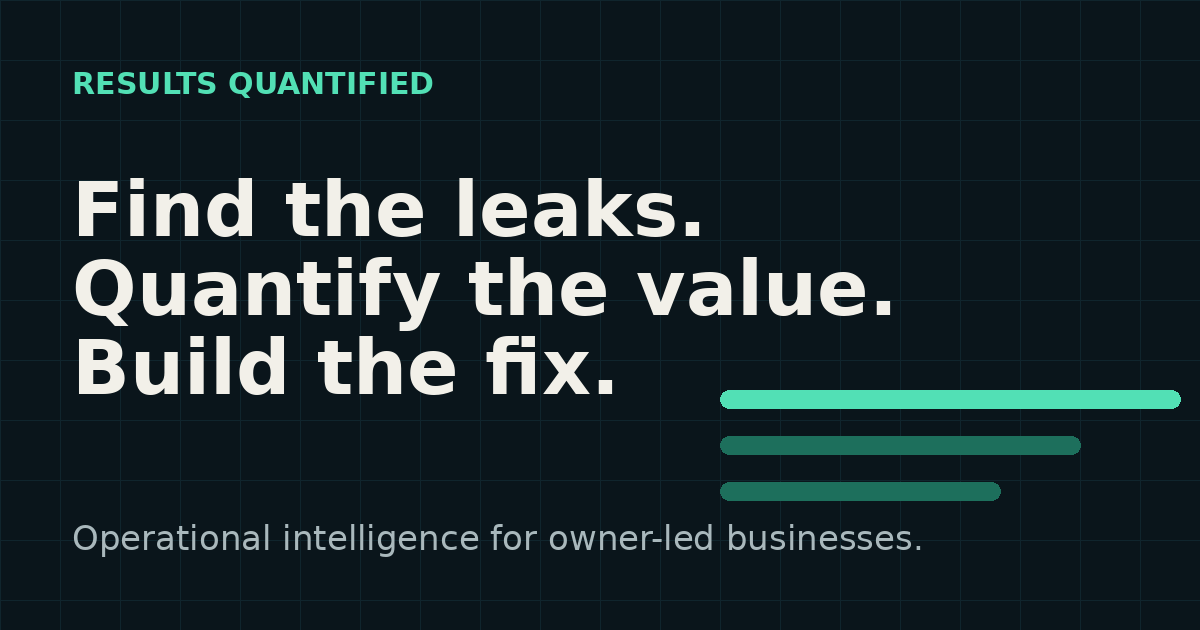
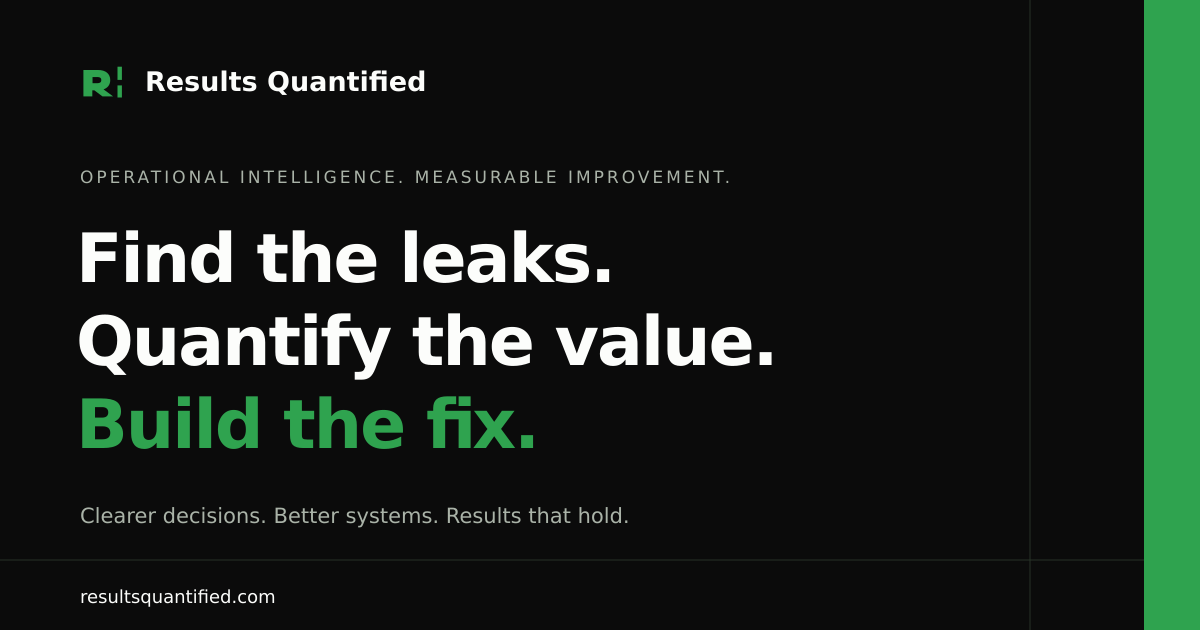
Apply black and medium-green branding and document iCloud email setup

diff --git a/styles.css b/styles.css
@@ -1,20 +1,20 @@
 :root {
-  --ink: #0a151b;
-  --ink-soft: #13252e;
-  --paper: #f2f0e9;
-  --paper-2: #e9e6dd;
-  --white: #fffdf8;
-  --muted: #68757b;
-  --muted-light: #a9b5b9;
-  --line: rgba(10, 21, 27, 0.14);
+  --ink: #0b0b0b;
+  --ink-soft: #171817;
+  --paper: #f2f3ef;
+  --paper-2: #e7eae4;
+  --white: #fcfdfb;
+  --muted: #626861;
+  --muted-light: #adb4ac;
+  --line: rgba(11, 11, 11, 0.14);
   --line-light: rgba(255,255,255,0.13);
-  --accent: #52e0b5;
-  --accent-dark: #0d6f59;
-  --accent-soft: rgba(82, 224, 181, 0.13);
+  --accent: #2fa34f;
+  --accent-dark: #1c7032;
+  --accent-soft: rgba(47, 163, 79, 0.13);
   --danger: #e18b6b;
   --radius: 18px;
   --radius-lg: 28px;
-  --shadow: 0 24px 70px rgba(5, 16, 22, 0.13);
+  --shadow: 0 24px 70px rgba(0, 0, 0, 0.13);
   --container: 1180px;
   --header-h: 82px;
 }
@@ -72,7 +72,7 @@ button { cursor: pointer; }
   z-index: 100;
   height: var(--header-h);
   color: var(--white);
-  background: rgba(10, 21, 27, 0.72);
+  background: rgba(11, 11, 11, 0.72);
   border-bottom: 1px solid transparent;
   backdrop-filter: blur(18px);
   -webkit-backdrop-filter: blur(18px);
@@ -80,7 +80,7 @@ button { cursor: pointer; }
 }
 .site-header.scrolled {
   height: 70px;
-  background: rgba(10, 21, 27, 0.94);
+  background: rgba(11, 11, 11, 0.94);
   border-color: var(--line-light);
 }
 .nav-wrap {
@@ -111,7 +111,7 @@ button { cursor: pointer; }
 .primary-nav a:hover, .primary-nav a:focus-visible { opacity: 1; color: var(--accent); }
 .primary-nav .nav-cta {
   opacity: 1;
-  border: 1px solid rgba(82, 224, 181, .55);
+  border: 1px solid rgba(47, 163, 79, .55);
   padding: 10px 15px;
   border-radius: 999px;
   color: var(--accent);
@@ -133,8 +133,8 @@ button { cursor: pointer; }
   overflow: hidden;
   color: var(--white);
   background:
-    radial-gradient(circle at 84% 17%, rgba(82,224,181,.12), transparent 28%),
-    radial-gradient(circle at 15% 80%, rgba(82,224,181,.07), transparent 30%),
+    radial-gradient(circle at 84% 17%, rgba(47, 163, 79,.12), transparent 28%),
+    radial-gradient(circle at 15% 80%, rgba(47, 163, 79,.07), transparent 30%),
     var(--ink);
   padding: 184px 0 112px;
 }
@@ -176,7 +176,7 @@ button { cursor: pointer; }
 .hero-lede {
   max-width: 690px;
   margin: 34px 0 0;
-  color: #c0cbce;
+  color: #c4cbc2;
   font-size: clamp(1.05rem, 1.6vw, 1.25rem);
   line-height: 1.65;
 }
@@ -195,16 +195,16 @@ button { cursor: pointer; }
   transition: transform .2s ease, box-shadow .2s ease, background .2s ease, border-color .2s ease;
 }
 .button:hover { transform: translateY(-2px); }
-.button-primary { background: var(--accent); color: var(--ink); box-shadow: 0 12px 30px rgba(82,224,181,.18); }
-.button-primary:hover { box-shadow: 0 15px 36px rgba(82,224,181,.3); }
+.button-primary { background: var(--accent); color: var(--ink); box-shadow: 0 12px 30px rgba(47, 163, 79,.18); }
+.button-primary:hover { box-shadow: 0 15px 36px rgba(47, 163, 79,.3); }
 .button-ghost { color: var(--white); border-color: rgba(255,255,255,.28); background: rgba(255,255,255,.025); }
 .button-ghost:hover { border-color: rgba(255,255,255,.55); }
-.hero-note { display: flex; align-items: center; gap: 10px; margin-top: 32px; color: #93a3a8; font-size: .88rem; }
-.pulse-dot { width: 8px; height: 8px; border-radius: 50%; background: var(--accent); box-shadow: 0 0 0 0 rgba(82,224,181,.5); animation: pulse 2.2s infinite; }
-@keyframes pulse { 70% { box-shadow: 0 0 0 9px rgba(82,224,181,0); } 100% { box-shadow: 0 0 0 0 rgba(82,224,181,0); } }
+.hero-note { display: flex; align-items: center; gap: 10px; margin-top: 32px; color: #a0aaa0; font-size: .88rem; }
+.pulse-dot { width: 8px; height: 8px; border-radius: 50%; background: var(--accent); box-shadow: 0 0 0 0 rgba(47, 163, 79,.5); animation: pulse 2.2s infinite; }
+@keyframes pulse { 70% { box-shadow: 0 0 0 9px rgba(47, 163, 79,0); } 100% { box-shadow: 0 0 0 0 rgba(47, 163, 79,0); } }
 
 .diagnostic-card {
-  background: rgba(18, 38, 47, .78);
+  background: rgba(24, 28, 24, .78);
   border: 1px solid rgba(255,255,255,.13);
   border-radius: var(--radius-lg);
   padding: 30px;
@@ -214,19 +214,19 @@ button { cursor: pointer; }
 }
 .card-topline { display: flex; justify-content: space-between; gap: 20px; align-items: flex-start; padding-bottom: 24px; border-bottom: 1px solid var(--line-light); }
 .card-topline h2 { margin: 4px 0 0; font-size: 1.4rem; letter-spacing: -.025em; }
-.mini-label { color: #8fa1a7; font-size: .68rem; font-weight: 800; letter-spacing: .12em; text-transform: uppercase; }
-.status-pill { flex: 0 0 auto; color: var(--accent); background: var(--accent-soft); border: 1px solid rgba(82,224,181,.24); border-radius: 999px; padding: 7px 10px; font-size: .7rem; font-weight: 800; text-transform: uppercase; letter-spacing: .08em; }
+.mini-label { color: #a2ada1; font-size: .68rem; font-weight: 800; letter-spacing: .12em; text-transform: uppercase; }
+.status-pill { flex: 0 0 auto; color: var(--accent); background: var(--accent-soft); border: 1px solid rgba(47, 163, 79,.24); border-radius: 999px; padding: 7px 10px; font-size: .7rem; font-weight: 800; text-transform: uppercase; letter-spacing: .08em; }
 .metric-row { display: grid; grid-template-columns: 1.25fr .7fr; gap: 20px; align-items: end; padding: 25px 0; border-bottom: 1px solid var(--line-light); }
 .metric-row > div:first-child { display: grid; grid-template-columns: 38px 1fr; }
 .metric-row strong { font-size: 1.02rem; }
-.metric-row small { grid-column: 2; color: #91a0a5; font-size: .78rem; }
+.metric-row small { grid-column: 2; color: #a2ada1; font-size: .78rem; }
 .metric-index { color: var(--accent); font-size: .7rem; font-weight: 800; }
 .metric-signal { padding-bottom: 3px; }
-.signal-label { display: block; margin-bottom: 8px; text-align: right; color: #77898f; font-size: .65rem; font-weight: 700; text-transform: uppercase; letter-spacing: .1em; }
+.signal-label { display: block; margin-bottom: 8px; text-align: right; color: #99a297; font-size: .65rem; font-weight: 700; text-transform: uppercase; letter-spacing: .1em; }
 .signal-track { height: 5px; overflow: hidden; border-radius: 999px; background: rgba(255,255,255,.1); }
 .signal-track span { display: block; width: var(--fill); height: 100%; border-radius: inherit; background: linear-gradient(90deg, var(--accent-dark), var(--accent)); transform-origin: left; animation: loadbar 1.2s .35s ease both; }
 @keyframes loadbar { from { transform: scaleX(0); } to { transform: scaleX(1); } }
-.card-footer { display: grid; grid-template-columns: repeat(4,1fr); gap: 8px; padding-top: 20px; color: #6e8188; font-size: .62rem; font-weight: 800; letter-spacing: .07em; text-transform: uppercase; }
+.card-footer { display: grid; grid-template-columns: repeat(4,1fr); gap: 8px; padding-top: 20px; color: #99a297; font-size: .62rem; font-weight: 800; letter-spacing: .07em; text-transform: uppercase; }
 
 .proof-strip { background: var(--paper-2); border-bottom: 1px solid var(--line); }
 .proof-grid { display: grid; grid-template-columns: repeat(3,1fr); }
@@ -262,20 +262,20 @@ button { cursor: pointer; }
 
 .method-layout { display: grid; grid-template-columns: .82fr 1.2fr; gap: clamp(50px, 8vw, 110px); align-items: start; }
 .method-intro { position: sticky; top: 120px; }
-.method-intro p:not(.eyebrow) { margin: 25px 0 0; color: #9cadb2; }
+.method-intro p:not(.eyebrow) { margin: 25px 0 0; color: #aab3a8; }
 .text-link { display: inline-flex; gap: 10px; margin-top: 30px; color: var(--accent); font-weight: 800; text-decoration: none; }
 .method-steps { list-style: none; margin: 0; padding: 0; }
 .method-steps li { display: grid; grid-template-columns: 60px 1fr; gap: 22px; padding: 34px 0; border-top: 1px solid var(--line-light); }
 .method-steps li:last-child { border-bottom: 1px solid var(--line-light); }
 .method-steps > li > span { color: var(--accent); font-size: .75rem; font-weight: 850; letter-spacing: .1em; }
 .method-steps h3 { margin: 0 0 8px; font-size: 1.45rem; letter-spacing: -.03em; }
-.method-steps p { margin: 0; color: #9cadb2; }
+.method-steps p { margin: 0; color: #aab3a8; }
 
 .fit-grid { display: grid; grid-template-columns: repeat(4,1fr); gap: 16px; }
 .fit-card { min-height: 286px; padding: 25px; border-radius: var(--radius); background: var(--ink); color: var(--white); }
-.fit-icon { display: inline-flex; align-items: center; justify-content: center; min-width: 54px; height: 28px; padding: 0 9px; border: 1px solid rgba(82,224,181,.38); border-radius: 999px; color: var(--accent); font-size: .65rem; font-weight: 850; letter-spacing: .08em; }
+.fit-icon { display: inline-flex; align-items: center; justify-content: center; min-width: 54px; height: 28px; padding: 0 9px; border: 1px solid rgba(47, 163, 79,.38); border-radius: 999px; color: var(--accent); font-size: .65rem; font-weight: 850; letter-spacing: .08em; }
 .fit-card h3 { margin: 75px 0 12px; font-size: 1.2rem; letter-spacing: -.025em; }
-.fit-card p { margin: 0; color: #9badb2; font-size: .9rem; }
+.fit-card p { margin: 0; color: #aab3a8; font-size: .9rem; }
 .fit-callout { display: grid; grid-template-columns: 1fr 1fr; gap: 60px; align-items: center; margin-top: 20px; padding: 36px; border-radius: var(--radius); border: 1px solid var(--line); background: var(--white); }
 .fit-callout h3 { margin: 8px 0 0; font-size: 1.55rem; line-height: 1.2; letter-spacing: -.035em; }
 .fit-callout p { margin: 0; color: var(--muted); }
@@ -286,11 +286,11 @@ button { cursor: pointer; }
 .built-visual { padding: 30px; border-radius: var(--radius-lg); background: var(--ink); color: var(--white); box-shadow: var(--shadow); }
 .system-map { display: grid; gap: 8px; place-items: center; padding: 30px 0 20px; }
 .map-node { width: 70%; padding: 15px 18px; border: 1px solid rgba(255,255,255,.16); border-radius: 10px; text-align: center; font-size: .82rem; font-weight: 800; }
-.map-node-source { width: 90%; color: #a8b8bd; }
+.map-node-source { width: 90%; color: #b1bcb0; }
 .map-node-accent { color: var(--ink); background: var(--accent); border-color: var(--accent); }
-.map-arrow { color: #6e858d; }
+.map-arrow { color: #99a297; }
 .system-tags { display: flex; flex-wrap: wrap; justify-content: center; gap: 8px; padding-top: 20px; border-top: 1px solid var(--line-light); }
-.system-tags span { padding: 6px 9px; border-radius: 6px; background: rgba(255,255,255,.06); color: #8fa0a6; font-size: .65rem; text-transform: uppercase; font-weight: 800; letter-spacing: .06em; }
+.system-tags span { padding: 6px 9px; border-radius: 6px; background: rgba(255,255,255,.06); color: #a2ada1; font-size: .65rem; text-transform: uppercase; font-weight: 800; letter-spacing: .06em; }
 .built-copy p:not(.eyebrow) { color: var(--muted); font-size: 1.02rem; }
 .built-copy p:nth-of-type(2) { margin-top: 28px; }
 
@@ -304,11 +304,11 @@ button { cursor: pointer; }
 
 .about-section { color: var(--white); background: var(--ink); }
 .about-layout { display: grid; grid-template-columns: .55fr 1.45fr; gap: 80px; align-items: start; }
-.about-label { width: 210px; height: 260px; display: flex; flex-direction: column; justify-content: space-between; padding: 25px; border: 1px solid rgba(255,255,255,.16); border-radius: var(--radius-lg); background: linear-gradient(155deg, rgba(82,224,181,.11), transparent 65%); }
+.about-label { width: 210px; height: 260px; display: flex; flex-direction: column; justify-content: space-between; padding: 25px; border: 1px solid rgba(255,255,255,.16); border-radius: var(--radius-lg); background: linear-gradient(155deg, rgba(47, 163, 79,.11), transparent 65%); }
 .about-label span { color: var(--accent); font-size: 4rem; font-weight: 760; letter-spacing: -.07em; }
-.about-label small { color: #87999f; text-transform: uppercase; letter-spacing: .08em; font-weight: 800; }
+.about-label small { color: #a2ada1; text-transform: uppercase; letter-spacing: .08em; font-weight: 800; }
 .about-copy { max-width: 760px; }
-.about-copy p:not(.eyebrow) { color: #a9b8bc; font-size: 1.03rem; }
+.about-copy p:not(.eyebrow) { color: #b1bcb0; font-size: 1.03rem; }
 .about-copy p:nth-of-type(2) { margin-top: 28px; }
 
 .faq-layout { display: grid; grid-template-columns: .7fr 1.3fr; gap: 80px; }
@@ -323,25 +323,25 @@ button { cursor: pointer; }
 .contact-section { position: relative; overflow: hidden; color: var(--white); background: var(--ink-soft); padding: 120px 0; }
 .contact-grid { opacity: .35; mask-image: linear-gradient(to top, #000, transparent 90%); }
 .contact-layout { position: relative; display: grid; grid-template-columns: .9fr 1.1fr; gap: clamp(50px, 8vw, 110px); align-items: start; }
-.contact-copy p:not(.eyebrow) { color: #9eafb4; }
-.contact-email { display: inline-block; margin-top: 20px; color: var(--accent); font-weight: 850; text-decoration: none; border-bottom: 1px solid rgba(82,224,181,.4); }
+.contact-copy p:not(.eyebrow) { color: #aab3a8; }
+.contact-email { display: inline-block; margin-top: 20px; color: var(--accent); font-weight: 850; text-decoration: none; border-bottom: 1px solid rgba(47, 163, 79,.4); }
 .contact-form { padding: 30px; border: 1px solid var(--line-light); border-radius: var(--radius-lg); background: rgba(255,255,255,.035); backdrop-filter: blur(8px); }
 .form-row { display: grid; gap: 8px; margin-bottom: 18px; }
-.form-row label { color: #a8b7bb; font-size: .78rem; font-weight: 750; }
+.form-row label { color: #b1bcb0; font-size: .78rem; font-weight: 750; }
 .form-row input, .form-row textarea { width: 100%; border: 1px solid rgba(255,255,255,.15); border-radius: 9px; color: var(--white); background: rgba(255,255,255,.045); padding: 13px 14px; outline: 0; transition: border-color .2s ease, box-shadow .2s ease; }
-.form-row input:focus, .form-row textarea:focus { border-color: var(--accent); box-shadow: 0 0 0 3px rgba(82,224,181,.1); }
+.form-row input:focus, .form-row textarea:focus { border-color: var(--accent); box-shadow: 0 0 0 3px rgba(47, 163, 79,.1); }
 .form-row textarea { resize: vertical; min-height: 125px; }
 .form-button { width: 100%; border: 0; }
-.form-note { margin: 12px 0 0; color: #778b91; font-size: .72rem; text-align: center; }
+.form-note { margin: 12px 0 0; color: #99a297; font-size: .72rem; text-align: center; }
 
-.site-footer { color: var(--white); background: #061015; padding: 70px 0 24px; }
+.site-footer { color: var(--white); background: #050605; padding: 70px 0 24px; }
 .footer-grid { display: grid; grid-template-columns: 1.6fr .6fr .6fr; gap: 60px; }
 .footer-brand { width: max-content; }
-.footer-grid > div:first-child > p { color: #74878d; }
+.footer-grid > div:first-child > p { color: #99a297; }
 .footer-links { display: grid; align-content: start; gap: 12px; }
-.footer-links a { color: #95a5aa; text-decoration: none; font-size: .86rem; }
+.footer-links a { color: #aab3a8; text-decoration: none; font-size: .86rem; }
 .footer-links a:hover { color: var(--accent); }
-.footer-bottom { display: flex; justify-content: space-between; margin-top: 55px; padding-top: 20px; border-top: 1px solid var(--line-light); color: #61737a; font-size: .75rem; }
+.footer-bottom { display: flex; justify-content: space-between; margin-top: 55px; padding-top: 20px; border-top: 1px solid var(--line-light); color: #99a297; font-size: .75rem; }
 
 .reveal { opacity: 1; transform: none; transition: opacity .65s ease, transform .65s ease; }
 .reveal.is-visible { opacity: 1; transform: translateY(0); }
@@ -372,7 +372,7 @@ button { cursor: pointer; }
     display: grid;
     gap: 0;
     padding: 18px 20px 26px;
-    background: rgba(10,21,27,.98);
+    background: rgba(11, 11, 11,.98);
     border-bottom: 1px solid var(--line-light);
     transform: translateY(-130%);
     opacity: 0;
@@ -382,7 +382,7 @@ button { cursor: pointer; }
   }
   .primary-nav.open { transform: translateY(0); opacity: 1; visibility: visible; pointer-events: auto; }
   .primary-nav a { padding: 13px 0; border-bottom: 1px solid var(--line-light); }
-  .primary-nav .nav-cta { margin-top: 14px; text-align: center; border-bottom: 1px solid rgba(82,224,181,.55); }
+  .primary-nav .nav-cta { margin-top: 14px; text-align: center; border-bottom: 1px solid rgba(47, 163, 79,.55); }
   .menu-toggle[aria-expanded="true"] span:nth-child(1) { transform: translateY(7px) rotate(45deg); }
   .menu-toggle[aria-expanded="true"] span:nth-child(2) { opacity: 0; }
   .menu-toggle[aria-expanded="true"] span:nth-child(3) { transform: translateY(-7px) rotate(-45deg); }

diff --git a/index.html b/index.html
@@ -6,20 +6,20 @@
   <title>Results Quantified | Operational Intelligence for Owner-Led Businesses</title>
   <meta name="description" content="Results Quantified helps owner-led manufacturers, distributors, and physical-operations businesses find operational leakage, quantify the value, and build the fix.">
   <meta name="robots" content="index, follow">
-  <meta name="theme-color" content="#0a151b">
+  <meta name="theme-color" content="#0b0b0b">
   <link rel="canonical" href="https://resultsquantified.com/">
-  <link rel="icon" href="/assets/favicon.svg" type="image/svg+xml">
-  <link rel="apple-touch-icon" href="/assets/apple-touch-icon.png">
+  <link rel="icon" href="/assets/favicon.svg?v=black-green" type="image/svg+xml">
+  <link rel="apple-touch-icon" href="/assets/apple-touch-icon.png?v=black-green">
   <link rel="manifest" href="/site.webmanifest">
   <meta property="og:type" content="website">
   <meta property="og:url" content="https://resultsquantified.com/">
   <meta property="og:title" content="Results Quantified">
   <meta property="og:description" content="Find the leaks. Quantify the value. Build the fix.">
-  <meta property="og:image" content="https://resultsquantified.com/assets/og-image.png">
+  <meta property="og:image" content="https://resultsquantified.com/assets/og-image.png?v=black-green">
   <meta name="twitter:card" content="summary_large_image">
   <meta name="twitter:title" content="Results Quantified">
   <meta name="twitter:description" content="Operational intelligence for owner-led businesses.">
-  <meta name="twitter:image" content="https://resultsquantified.com/assets/og-image.png">
+  <meta name="twitter:image" content="https://resultsquantified.com/assets/og-image.png?v=black-green">
   <link rel="stylesheet" href="/styles.css">
   <script type="application/ld+json">
   {

diff --git a/privacy.html b/privacy.html
@@ -6,7 +6,7 @@
   <title>Privacy | Results Quantified</title>
   <meta name="robots" content="index, follow">
   <link rel="canonical" href="https://resultsquantified.com/privacy.html">
-  <link rel="icon" href="/assets/favicon.svg" type="image/svg+xml">
+  <link rel="icon" href="/assets/favicon.svg?v=black-green" type="image/svg+xml">
   <link rel="stylesheet" href="/styles.css">
 </head>
 <body>

diff --git a/terms.html b/terms.html
@@ -6,7 +6,7 @@
   <title>Terms | Results Quantified</title>
   <meta name="robots" content="index, follow">
   <link rel="canonical" href="https://resultsquantified.com/terms.html">
-  <link rel="icon" href="/assets/favicon.svg" type="image/svg+xml">
+  <link rel="icon" href="/assets/favicon.svg?v=black-green" type="image/svg+xml">
   <link rel="stylesheet" href="/styles.css">
 </head>
 <body>

diff --git a/404.html b/404.html
@@ -4,7 +4,7 @@
   <meta charset="utf-8">
   <meta name="viewport" content="width=device-width, initial-scale=1">
   <title>Page not found | Results Quantified</title>
-  <link rel="icon" href="/assets/favicon.svg" type="image/svg+xml">
+  <link rel="icon" href="/assets/favicon.svg?v=black-green" type="image/svg+xml">
   <link rel="stylesheet" href="/styles.css">
 </head>
 <body>

diff --git a/README.md b/README.md
@@ -31,11 +31,17 @@ Deploy through Cloudflare's Pages deployments API using a multipart form with `_
 
 All website files remain editable in their original static format.
 
+## Brand colors
+
+The brand uses black `#0b0b0b` and medium green `#2fa34f`, with a darker green `#1c7032` for text on light backgrounds. Core text and button color pairs have at least 4.5:1 contrast.
+
+The favicon and social sharing graphic have editable SVG sources. To regenerate their PNG exports with Inkscape installed, run `bash scripts/build-brand.sh`, then rebuild the Worker. Asset links include a version query to refresh previously cached graphics.
+
 ## Contact
 
 The form prepares an email addressed to `hello@resultsquantified.com` in the visitor's mail application. It does not store submissions or send email itself.
 
-The domain already has iCloud Mail DNS records. These were preserved. Receiving mail at the specific `hello` address still needs verification in iCloud; domain-level MX records alone do not prove that mailbox exists.
+Email hosting uses iCloud Mail. The domain now has Apple's two MX records, its existing domain verification and DKIM records, and the required SPF record. The requested addresses are `nick@resultsquantified.com` and `hello@resultsquantified.com`, both intended for Nicholas's existing iCloud inbox. Creation and activation of those addresses still need verification inside the signed-in iCloud account; domain-level DNS alone does not prove either address exists.
 
 ## Verification
 

diff --git a/LAUNCH_CHECKLIST.md b/LAUNCH_CHECKLIST.md
@@ -13,7 +13,9 @@
 - [x] Server behavior checked for HEAD, cache revalidation, 404, unsupported methods, invalid paths, HTTPS and www redirects.
 
 ## Remaining follow-up
-- [ ] Verify hello@resultsquantified.com exists and receives messages through iCloud Mail. No test email was sent.
+- [x] Apply black and medium-green brand colors to the website, favicon, and social graphic.
+- [x] Add Apple's missing secondary MX and SPF records while preserving existing Apple verification and DKIM records.
+- [ ] Create or verify nick@resultsquantified.com and hello@resultsquantified.com in Nicholas's iCloud account. No delivery test has been performed.
 - [ ] Repair Cloudflare's Git installation if automatic publishing from GitHub is desired. Current hosting uses direct deployment; a GitHub push alone does not publish.
 - [ ] Confirm the legal business name and review the supplied Terms and Privacy copy.
 - [ ] Additional mobile Safari, Android, and browser accessibility testing.
